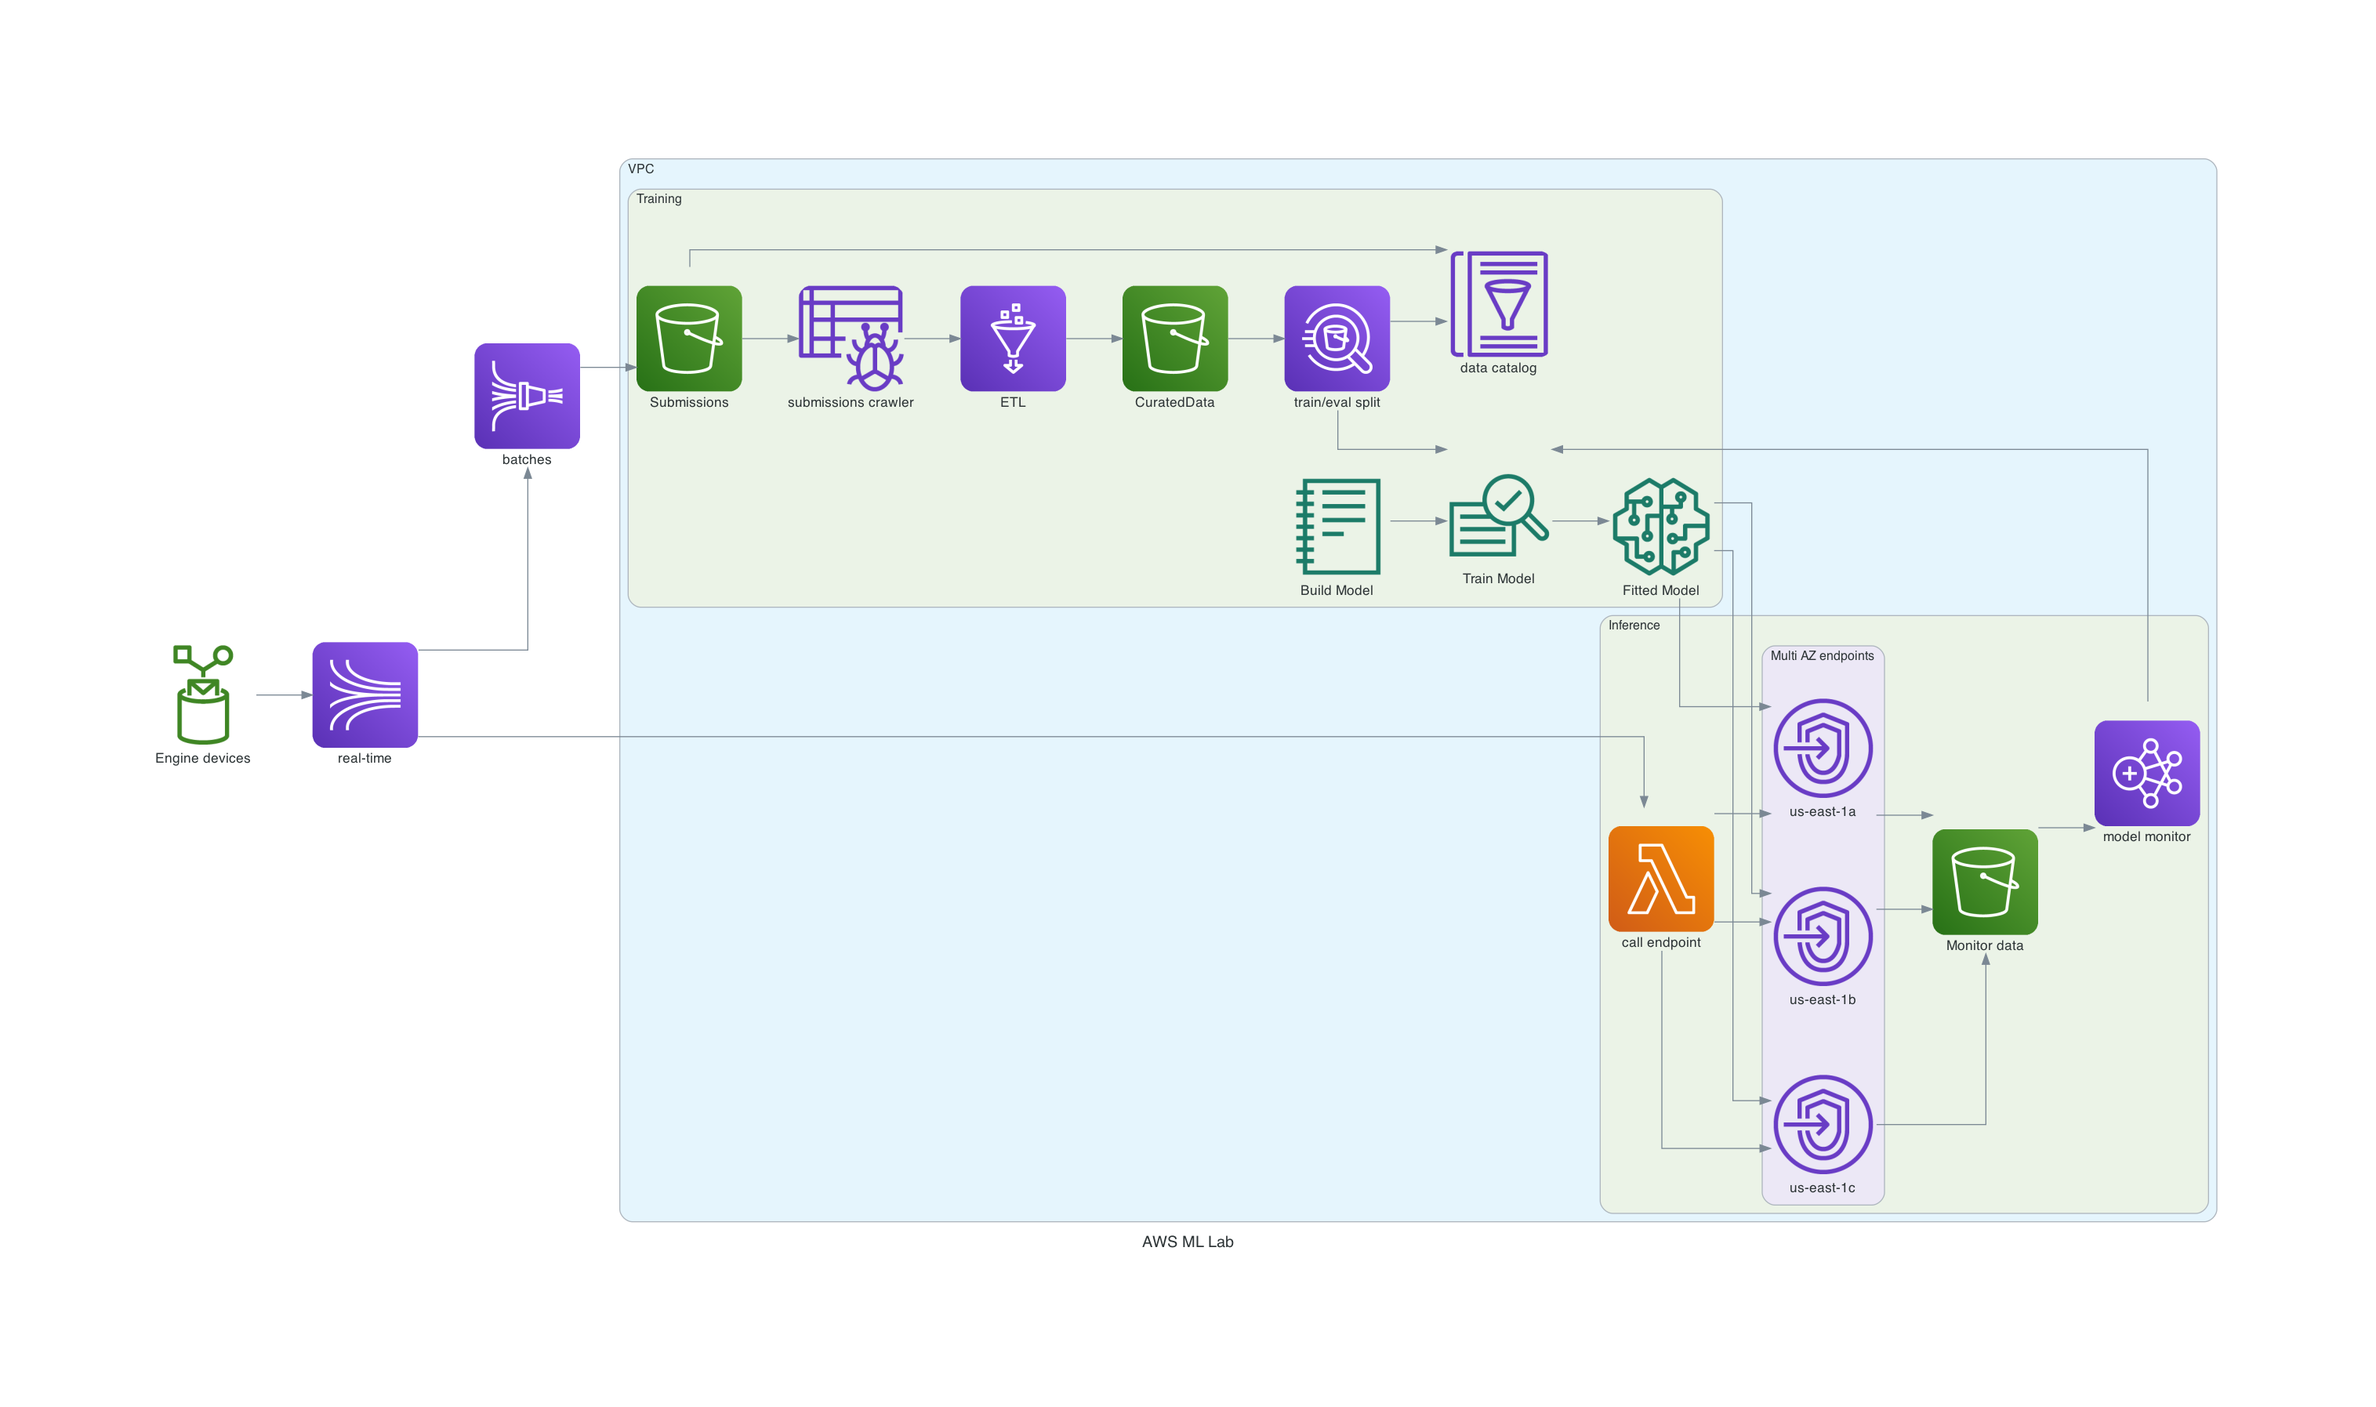
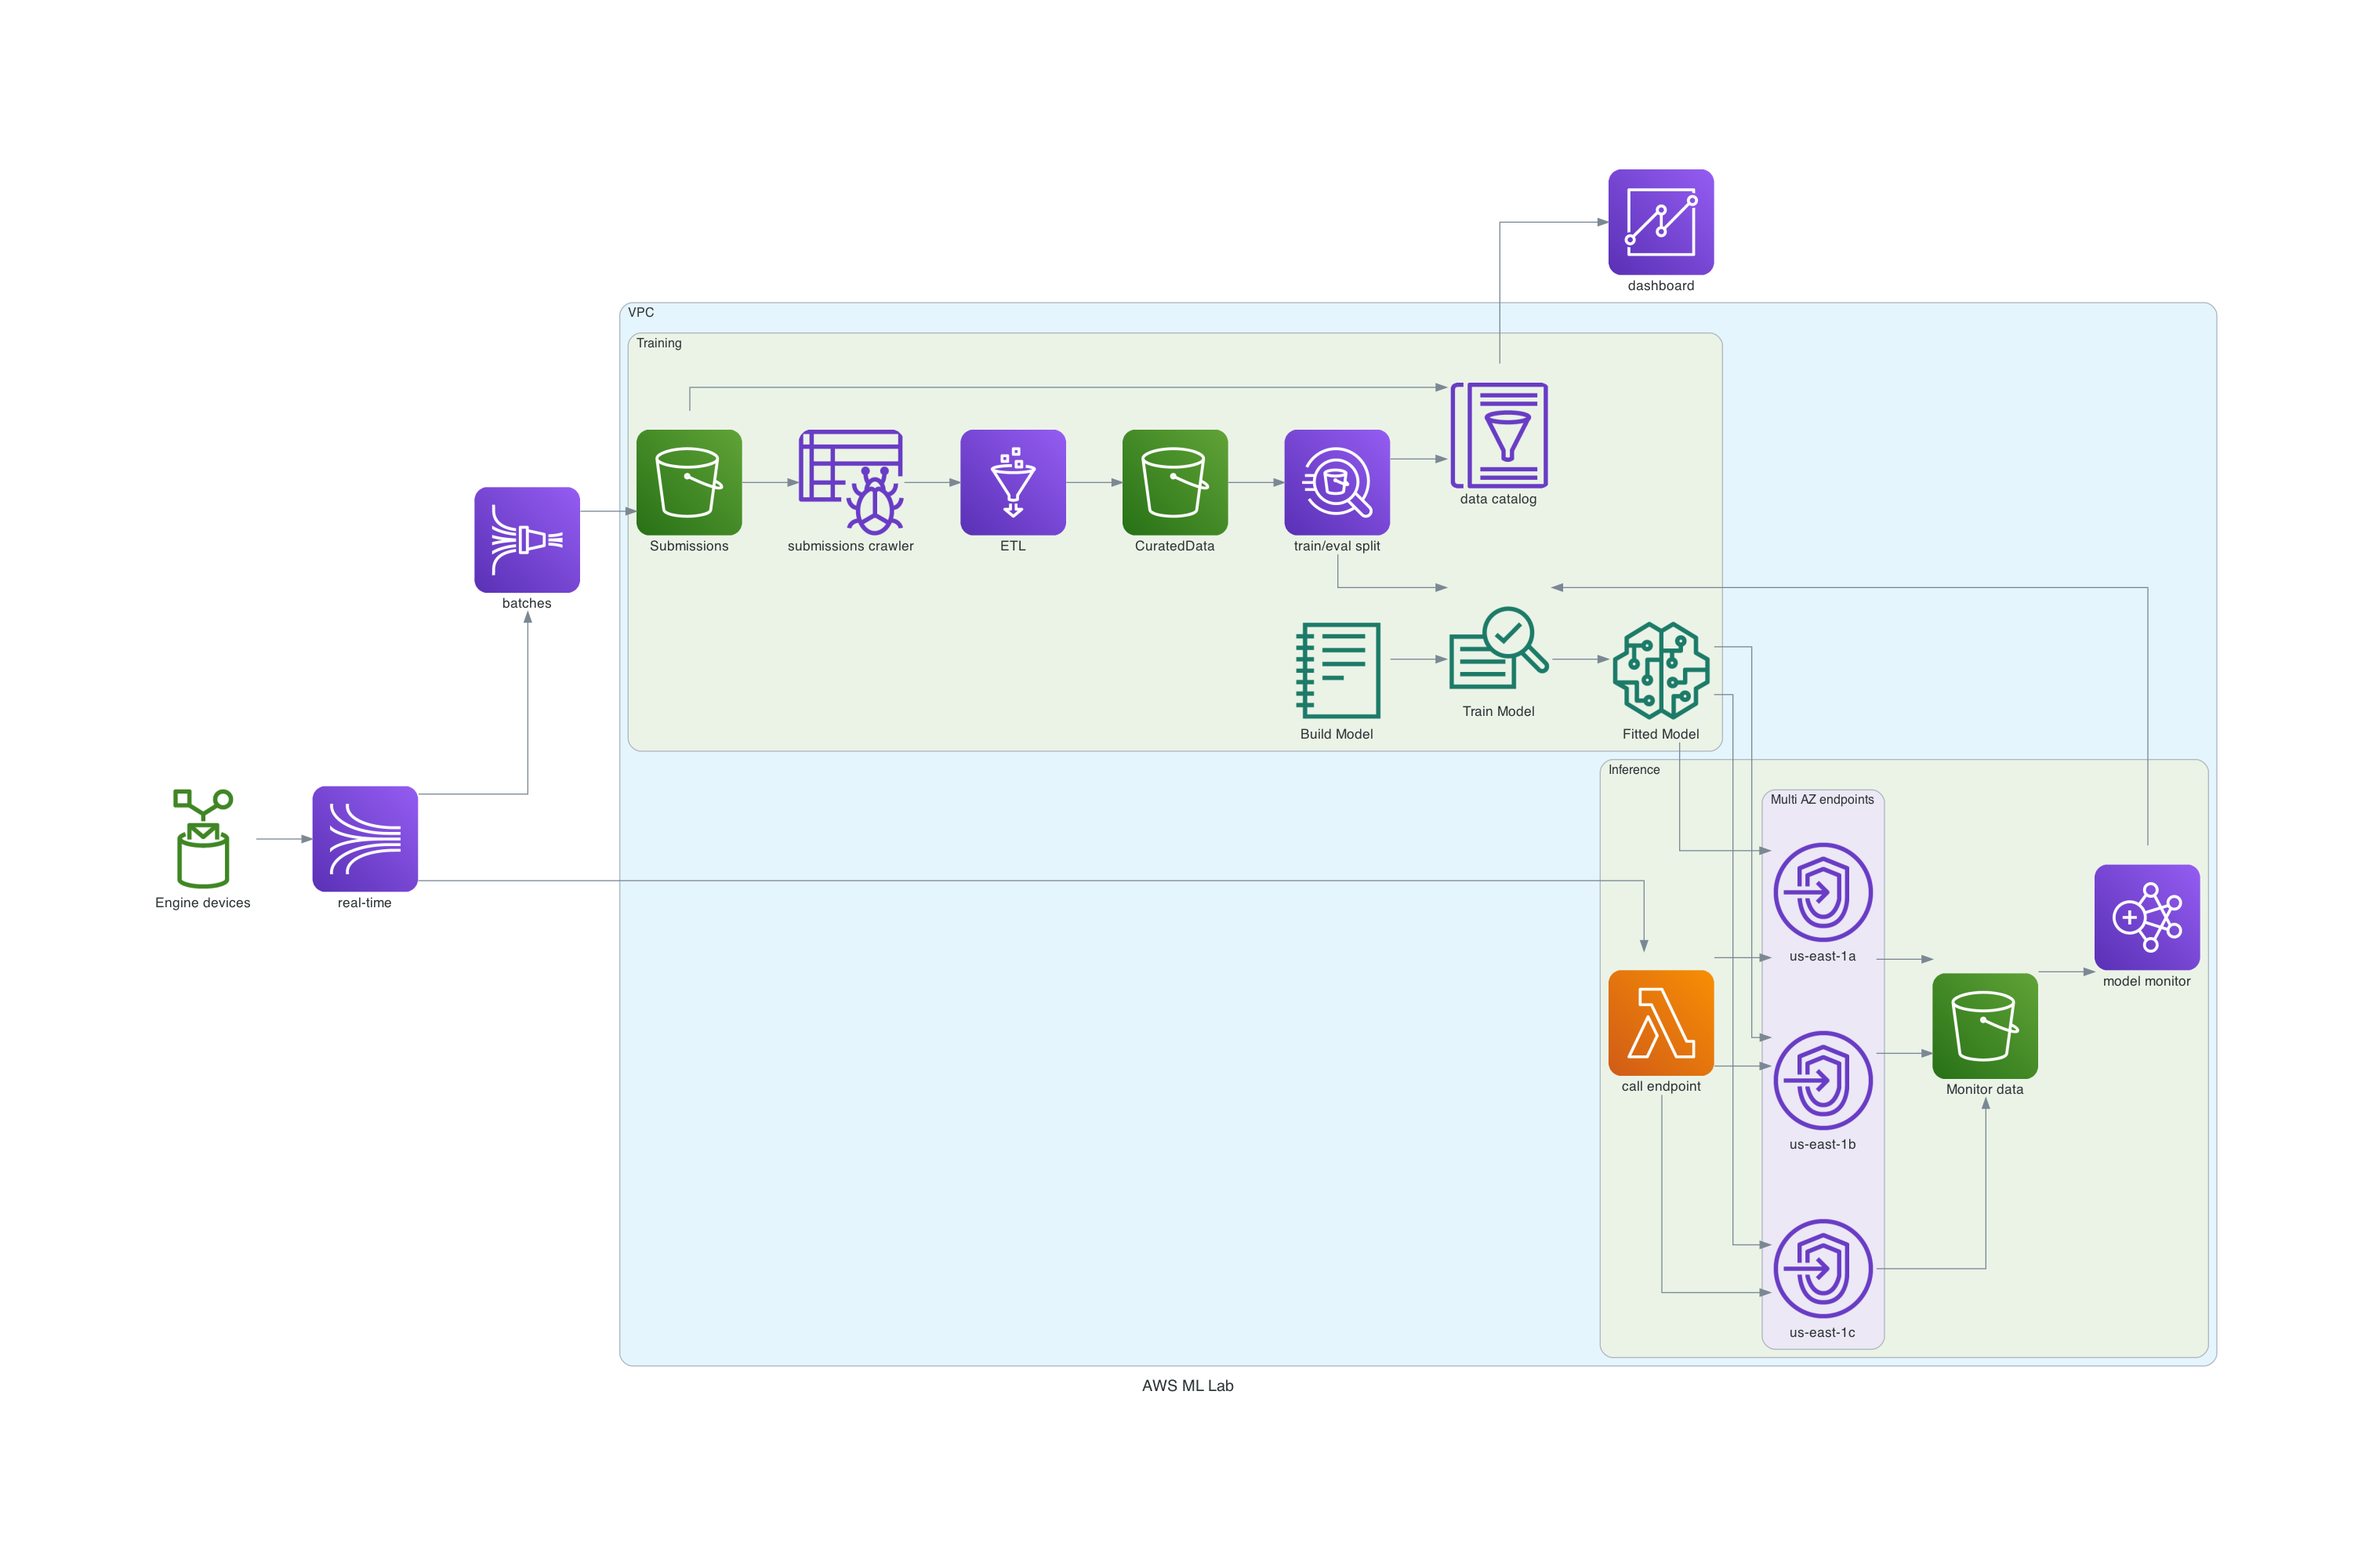
update diagram with qs dashboard

diff --git a/src/diagram.py b/src/diagram.py
@@ -11,6 +11,7 @@ from diagrams.aws.analytics import (
     KinesisDataFirehose,
     Kinesis,
     EMR,
+    Quicksight,
 )
 from diagrams.aws.ml import SagemakerNotebook, SagemakerTrainingJob, SagemakerModel
 
@@ -18,7 +19,7 @@ with Diagram("AWS ML Lab", show=False):
     iot = IotRule("Engine devices")
     inference = Kinesis("real-time")
     source = KinesisDataFirehose("batches")
-
+    quicksight = Quicksight("dashboard")
     with Cluster("VPC"):
         with Cluster("Training"):
             submissions = S3("Submissions")
@@ -51,12 +52,9 @@ with Diagram("AWS ML Lab", show=False):
     source >> submissions >> submissions_crawler >> curated_crawler >> curated
     submissions >> catalog
     iot >> inference >> source
-
     curated >> ctas >> [catalog, job]
-
     notebooks >> job >> model
-
     model >> endpoints >> published >> monitor_sched
-
     inference >> endpointLambda >> endpoints
     monitor_sched >> job
+    catalog >> quicksight
